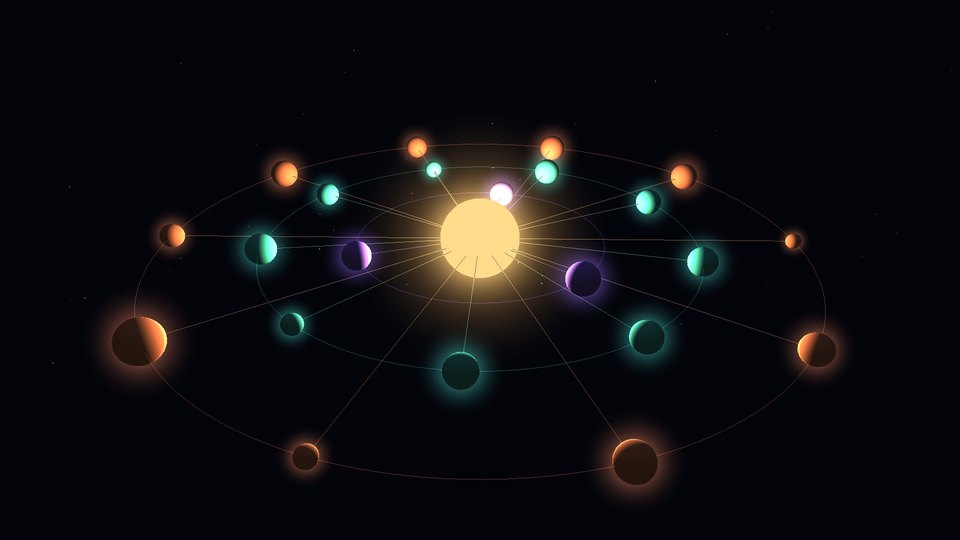
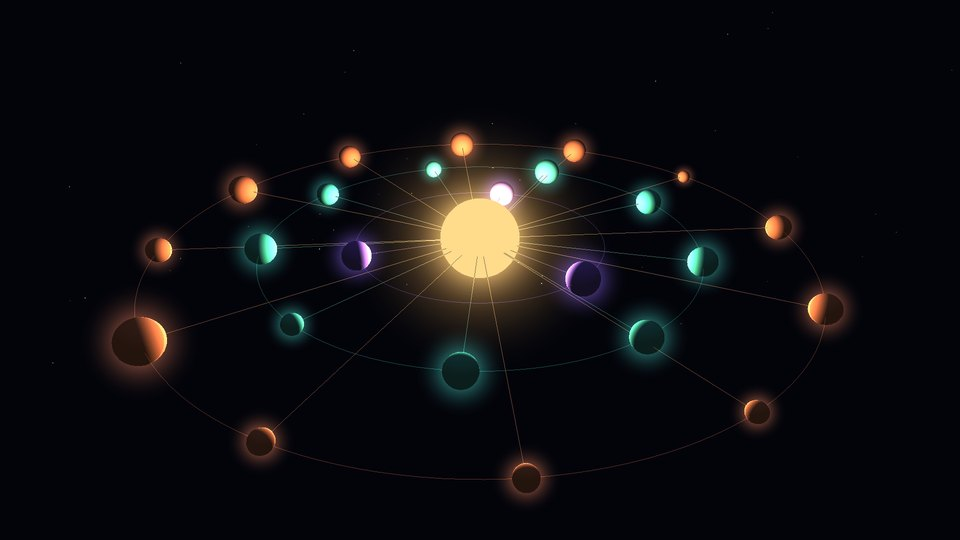
docs(showcase): add the SDL and React tic-tac-toes
Two more grid games were added to docs/SHOWCASE.md under Games, for when
their 3D views are merged: Tic Tac Toe (SDL), which draws its board in a
Strata window on the desktop and through the grid relay in the browser, and
Tic Tac Toe (Web), whose React page draws its board through the grid relay.
Each picture is the 3D hero proposed for that project's README, taken from a
local build of its page in headless Chromium. The graphik/grid relay entry
now says the two talk to the relay directly. Both were added to PROJECTS in
tools/make_family_media.py and the family still and orbit GIF were redrawn
(twenty-four projects).

This goes on top of "add the grid games, graphik's grid3d and the grid
relay".

drafted by Claude on behalf of Daniel Stephenson

Claude-Session: https://claude.ai/code/session_01LYNeuoCqxFpUXrFhxnTg89

diff --git a/tools/make_family_media.py b/tools/make_family_media.py
@@ -39,7 +39,7 @@ RELEASE = "0.7.0"
 
 # The projects in docs/SHOWCASE.md, by section and in its order, with their
 # repository size in KB.
-SIZES_READ = "2026-10-29"  # ophidian, Tic-Tak-Toe, apex and graphik: 2026-11-20
+SIZES_READ = "2026-10-29"  # the grid games (ophidian, the tic-tac-toes, apex) and graphik: 2026-11-20
 RINGS = [
     # (section, ring radius, colour)
     ("Renders and previews", 3.4, (0.60, 0.42, 1.00)),
@@ -58,6 +58,8 @@ PROJECTS = {
         ("Stephenson-Software/FishE", 2723),
         ("Preponderous-Software/ophidian", 3180),
         ("Stephenson-Software/Tic-Tak-Toe", 148),
+        ("Stephenson-Software/Tic-Tac-Toe-Using-SDL", 204),
+        ("dmccoystephenson/Tic-Tac-Toe-Web-App", 240),
     ],
     "Simulations and views": [
         ("Preponderous-Software/apex", 3947),

diff --git a/docs/SHOWCASE.md b/docs/SHOWCASE.md
@@ -1,12 +1,13 @@
 # Made with Strata
 
-<img src="media/family-orbit.gif" width="720" alt="Strata as a glowing core with a light in it, and the twenty-two projects below as spheres on three rings around it, joined to the core by thin lines; the camera goes once round">
+<img src="media/family-orbit.gif" width="720" alt="Strata as a glowing core with a light in it, and the twenty-four projects below as spheres on three rings around it, joined to the core by thin lines; the camera goes once round">
 
 <sub>The family, drawn by Strata v0.7.0 itself through the Python binding
 (`tools/make_family_media.py`). Inner ring, violet: renders and previews.
 Middle ring, teal: simulations and views. Outer ring, orange: games. Each
 sphere's size is its GitHub repository size on a log scale (read on
-2026-10-29; Ophidian, Tic Tak Toe, Apex and graphik on 2026-11-20), from
+2026-10-29; Ophidian, the three tic-tac-toes, Apex and graphik on
+2026-11-20), from
 Familiar at 125 KB to Beyond Nations at about 74 MB. The core's
 point light gives each one its lit side. A still is in
 [`media/showcase/family.jpg`](media/showcase/family.jpg).</sub>
@@ -144,6 +145,34 @@ in 3D.
 <sub>Rendered fresh by `tools/strata_snapshot.py` (the board mid-game) at
 `Stephenson-Software/Tic-Tak-Toe@7ea2cc2`.</sub>
 
+### Tic Tac Toe (SDL)
+
+Tic Tac Toe against the computer in C++ and SDL2. On the desktop it loads
+Strata's library and draws the board in a Strata window; its browser build
+sends the board to the [grid relay](#graphik-grid3d-and-the-grid-relay) and
+starts in 3D (`?view=2d` picks 2D).
+[Repository](https://github.com/Stephenson-Software/Tic-Tac-Toe-Using-SDL) ·
+[play in the browser](https://tic-tac-toe-sdl.play.danielstephenson.dev)
+
+<img src="media/showcase/tic-tac-toe-sdl.jpg" width="480" alt="The SDL game's 3D board in the browser mid-game: red X pieces and blue O rings on white tiles in a dark frame">
+
+<sub>A frame of `docs/images/3d-hero.png` in `Stephenson-Software/Tic-Tac-Toe-Using-SDL`
+(a local build of its browser page in headless Chromium).</sub>
+
+### Tic Tac Toe (Web)
+
+A two-player Tic Tac Toe in React, with a move list to step back through.
+Its board can be drawn in 3D by the
+[grid relay](#graphik-grid3d-and-the-grid-relay), the default where WebGL 2
+runs; `?view=2d` picks the 2D board.
+[Repository](https://github.com/dmccoystephenson/Tic-Tac-Toe-Web-App) ·
+[play in the browser](https://tic-tac-toe-web.play.danielstephenson.dev)
+
+<img src="media/showcase/tic-tac-toe-web.jpg" width="480" alt="The React game in the browser after X wins down the middle column: the 3D board on the left, the move list on the right">
+
+<sub>`docs/images/3d-hero.png` in `dmccoystephenson/Tic-Tac-Toe-Web-App`
+(a local build of its page in headless Chromium).</sub>
+
 ## Simulations and views
 
 ### Apex
@@ -170,7 +199,7 @@ browser it sends small binary messages (board, pieces, HUD, camera) to
 Strata's **grid relay** (`web/kit/grid-relay`, wire format in its `WIRE.md`),
 a web-kit scene that slides the pieces between ticks itself; the relay ships
 prebuilt in Strata's wasm release from 0.9.0. Ophidian, Tic Tak Toe and Apex
-use both.
+use both; the SDL and React tic-tac-toes talk to the relay directly.
 [graphik](https://github.com/Stephenson-Software/graphik) ·
 [grid relay](../web/kit/grid-relay/)
 

diff --git a/README.md b/README.md
@@ -67,7 +67,7 @@ The design is Preponderous Software's RFC 0020, *Shared C++ 3D Engine*.
 
 ## Made with Strata
 
-<a href="docs/SHOWCASE.md"><img src="docs/media/showcase/family.jpg" width="480" alt="Strata as a glowing core with twenty-two projects on three rings around it: renders and previews inside, simulations and views in the middle, games outside"></a>
+<a href="docs/SHOWCASE.md"><img src="docs/media/showcase/family.jpg" width="480" alt="Strata as a glowing core with twenty-four projects on three rings around it: renders and previews inside, simulations and views in the middle, games outside"></a>
 
 <sub>The family, drawn by Strata itself (`tools/make_family_media.py`): one
 ring per kind of project, each sphere sized by its repository.</sub>
